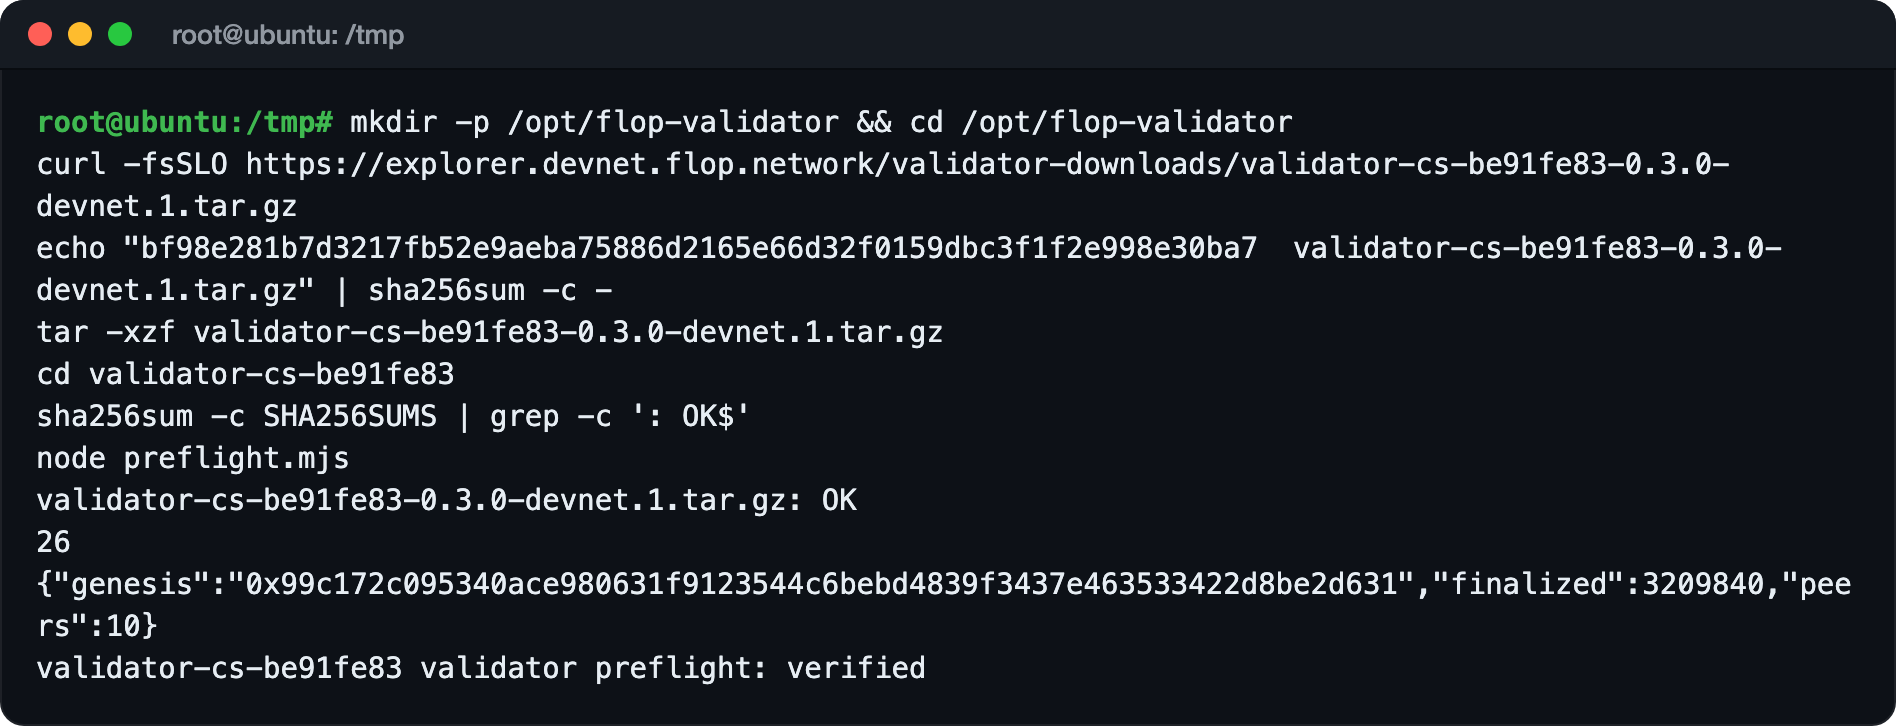
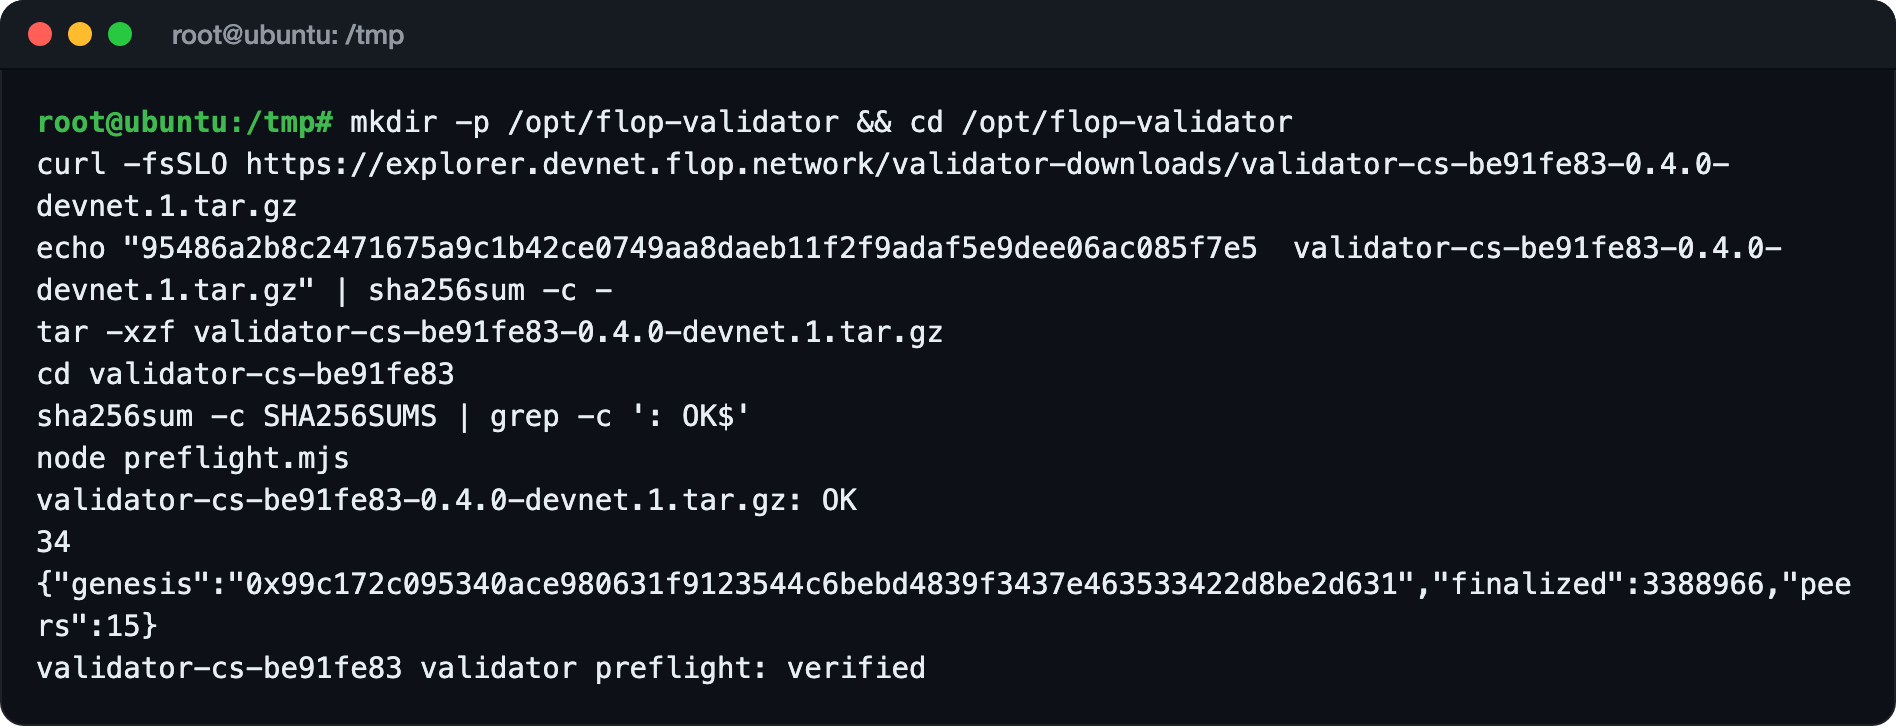
docs: move to validator package 0.4.0-devnet.1
FLOP's docs name 0.4.0-devnet.1 since 9 November. Step 8 uses its archive and
checksum, with a new picture from a real run (34 files, preflight verified),
and the #10 template names it. The after-admission part adds FLOP's new path:
validator-grant.json with a sponsored join, pnpm onboard status, and not
registering the account any other way first. The prepare code is unchanged,
so the pictures of steps 9 to 13 still apply.

diff --git a/Turkce-Kurulum.md b/Turkce-Kurulum.md
@@ -8,7 +8,9 @@
 > ([FLOP'un açıklaması](https://x.com/flop_labs/status/2119121264388526205)). Onay gelmeden büyük
 > bir sunucu kiralamayın. Devnet ödül vermez.
 
-Adımlar 8 Kasım 2026'da sıfırdan kurulan bir Ubuntu 22.04 sunucuda denendi.
+Adımlar 8 Kasım 2026'da sıfırdan kurulan bir Ubuntu 22.04 sunucuda denendi. Rehber 10 Kasım
+2026'da FLOP'un belgesinin artık gösterdiği 0.4.0-devnet.1 paketine geçti ve 8. ile 10. adımlar
+bu paketle tekrar çalıştırıldı.
 
 ---
 
@@ -164,15 +166,17 @@ install -m 755 cosign-linux-amd64 /usr/local/bin/cosign
 
 ```bash
 mkdir -p /opt/flop-validator && cd /opt/flop-validator
-curl -fsSLO https://explorer.devnet.flop.network/validator-downloads/validator-cs-be91fe83-0.3.0-devnet.1.tar.gz
-echo "bf98e281b7d3217fb52e9aeba75886d2165e66d32f0159dbc3f1f2e998e30ba7  validator-cs-be91fe83-0.3.0-devnet.1.tar.gz" | sha256sum -c -
-tar -xzf validator-cs-be91fe83-0.3.0-devnet.1.tar.gz
+curl -fsSLO https://explorer.devnet.flop.network/validator-downloads/validator-cs-be91fe83-0.4.0-devnet.1.tar.gz
+echo "95486a2b8c2471675a9c1b42ce0749aa8daeb11f2f9adaf5e9dee06ac085f7e5  validator-cs-be91fe83-0.4.0-devnet.1.tar.gz" | sha256sum -c -
+tar -xzf validator-cs-be91fe83-0.4.0-devnet.1.tar.gz
 cd validator-cs-be91fe83
 sha256sum -c SHA256SUMS | grep -c ': OK$'
 node preflight.mjs
 ```
 
-- Sırasıyla `OK`, `26` ve son satırda `verified` görmelisiniz.
+- Sırasıyla `OK`, `34` ve son satırda `verified` görmelisiniz.
+- Hazırlığı 0.3.0-devnet.1 ile yaptıysanız 13. adımdaki üç bilgi değişmez, yeniden başvurmanız
+  gerekmez.
 
 Örnek çıktı:
 
@@ -288,7 +292,7 @@ Hostname: <hostname>
 Public SS58 address: <5...>
 SSH host public key (encryption recipient only): <ssh-ed25519 AAAA...>
 
-Prepared with validator-cs-be91fe83 0.3.0-devnet.1: the archive SHA-256 matches the docs,
+Prepared with validator-cs-be91fe83 0.4.0-devnet.1: the archive SHA-256 matches the docs,
 SHA256SUMS and node preflight.mjs pass, both Cosign signatures verify and pnpm onboard prepare
 is done. Tailscale is installed and logged out (Tailscale SSH will stay off) and age is
 installed. Nothing is started or registered.
@@ -305,12 +309,13 @@ This comment contains only public values.
 
 ## Onaydan Sonra (Henüz Denenmedi)
 
-FLOP onay verince size tek kullanımlık bir Tailscale anahtarı, stake ve `da-peers.json` dosyası
-gönderir. [FLOP'un belgesine](https://docs.flop.network/docs/run-validator) göre:
+FLOP onay verince size tek kullanımlık bir Tailscale anahtarı, `da-peers.json` dosyası ve stake
+gönderir. Stake yerine bir `validator-grant.json` dosyası da gönderebilir.
+[FLOP'un belgesine](https://docs.flop.network/docs/run-validator) göre:
 
 1. Anahtarı paket klasörüne `tailnet-key.age` adıyla kaydedin ve FLOP'un verdiği `tailscale up`
    komutunu çalıştırın. Ardından `tailscale set --ssh=false` yazın.
-2. `da-peers.json` dosyasını paket klasörüne koyun.
+2. `da-peers.json` dosyasını, geldiyse `validator-grant.json` dosyasını da paket klasörüne koyun.
 3. FLOP erişim kontrollerini bitirdiğini söyleyince:
 
    ```bash
@@ -318,9 +323,13 @@ gönderir. [FLOP'un belgesine](https://docs.flop.network/docs/run-validator) gö
    pnpm onboard join
    ```
 
-   `Ready:` satırını görünce FLOP'a "ready" yazın.
+   `validator-grant.json` varsa `join` kaydınızı FLOP'un sponsoru üzerinden yapar, stake'i sponsor
+   tutar. `Ready:` satırını görünce FLOP'a "ready" yazın.
 4. FLOP aktif olduğunuzu bildirince kontrol edin: `pnpm onboard verify`
 
+- `pnpm onboard status` nerede olduğunuzu gösterir: sırada (queued), ertelenmiş (deferred), terfi
+  etmiş (promoted) ya da aktif (active).
+- `join` öncesinde hesabı başka bir yolla kaydetmeyin: sponsor yalnızca yeni hesapları kabul eder.
 - Onaydan önce `join` çalıştırırsanız `tailscale failed; no signing material was printed` hatası
   alırsınız, bu normaldir.
 - `join` yarıda kalırsa tekrar çalıştırmayın, dosyaları silmeyin ve FLOP'a yazın.

diff --git a/README.md b/README.md
@@ -8,7 +8,9 @@
 > ([FLOP's note](https://x.com/flop_labs/status/2119121264388526205)). Do not rent a big server
 > before you are admitted. The devnet gives no rewards.
 
-These steps were tested on 8 November 2026 on a freshly installed Ubuntu 22.04 server.
+These steps were tested on 8 November 2026 on a freshly installed Ubuntu 22.04 server. On 10
+November 2026 the guide moved to package 0.4.0-devnet.1, which FLOP's docs now name, and steps 8
+and 10 were run again with it.
 
 ---
 
@@ -162,15 +164,17 @@ Example output:
 
 ```bash
 mkdir -p /opt/flop-validator && cd /opt/flop-validator
-curl -fsSLO https://explorer.devnet.flop.network/validator-downloads/validator-cs-be91fe83-0.3.0-devnet.1.tar.gz
-echo "bf98e281b7d3217fb52e9aeba75886d2165e66d32f0159dbc3f1f2e998e30ba7  validator-cs-be91fe83-0.3.0-devnet.1.tar.gz" | sha256sum -c -
-tar -xzf validator-cs-be91fe83-0.3.0-devnet.1.tar.gz
+curl -fsSLO https://explorer.devnet.flop.network/validator-downloads/validator-cs-be91fe83-0.4.0-devnet.1.tar.gz
+echo "95486a2b8c2471675a9c1b42ce0749aa8daeb11f2f9adaf5e9dee06ac085f7e5  validator-cs-be91fe83-0.4.0-devnet.1.tar.gz" | sha256sum -c -
+tar -xzf validator-cs-be91fe83-0.4.0-devnet.1.tar.gz
 cd validator-cs-be91fe83
 sha256sum -c SHA256SUMS | grep -c ': OK$'
 node preflight.mjs
 ```
 
-- You should see `OK`, then `26`, then `verified` on the last line.
+- You should see `OK`, then `34`, then `verified` on the last line.
+- If you prepared with 0.3.0-devnet.1, the three details in step 13 stay the same, so you do not
+  have to apply again.
 
 Example output:
 
@@ -285,7 +289,7 @@ Hostname: <hostname>
 Public SS58 address: <5...>
 SSH host public key (encryption recipient only): <ssh-ed25519 AAAA...>
 
-Prepared with validator-cs-be91fe83 0.3.0-devnet.1: the archive SHA-256 matches the docs,
+Prepared with validator-cs-be91fe83 0.4.0-devnet.1: the archive SHA-256 matches the docs,
 SHA256SUMS and node preflight.mjs pass, both Cosign signatures verify and pnpm onboard prepare
 is done. Tailscale is installed and logged out (Tailscale SSH will stay off) and age is
 installed. Nothing is started or registered.
@@ -302,12 +306,13 @@ This comment contains only public values.
 
 ## After Admission (Not Tested Yet)
 
-After admission, FLOP sends you a single-use Tailscale key, the stake and a `da-peers.json` file.
-According to [FLOP's docs](https://docs.flop.network/docs/run-validator):
+After admission, FLOP sends you a single-use Tailscale key, a `da-peers.json` file and the stake.
+Instead of the stake, it may send a `validator-grant.json` file. According to
+[FLOP's docs](https://docs.flop.network/docs/run-validator):
 
 1. Save the key in the package folder as `tailnet-key.age` and run the `tailscale up` command FLOP
    gives you. Then run `tailscale set --ssh=false`.
-2. Put `da-peers.json` in the package folder.
+2. Put `da-peers.json`, and `validator-grant.json` if you got one, in the package folder.
 3. When FLOP says its access checks are done:
 
    ```bash
@@ -315,9 +320,12 @@ According to [FLOP's docs](https://docs.flop.network/docs/run-validator):
    pnpm onboard join
    ```
 
-   When you see the `Ready:` line, tell FLOP "ready".
+   With `validator-grant.json`, `join` registers you through FLOP's sponsor, which holds the
+   stake. When you see the `Ready:` line, tell FLOP "ready".
 4. After FLOP tells you that you are active, check it: `pnpm onboard verify`
 
+- `pnpm onboard status` shows where you stand: queued, deferred, promoted or active.
+- Do not register the account any other way before `join`: the sponsor accepts only new accounts.
 - If you run `join` before admission, you get `tailscale failed; no signing material was
   printed`. This is normal.
 - If `join` stops halfway, do not run it again, do not delete any files, and contact FLOP.
